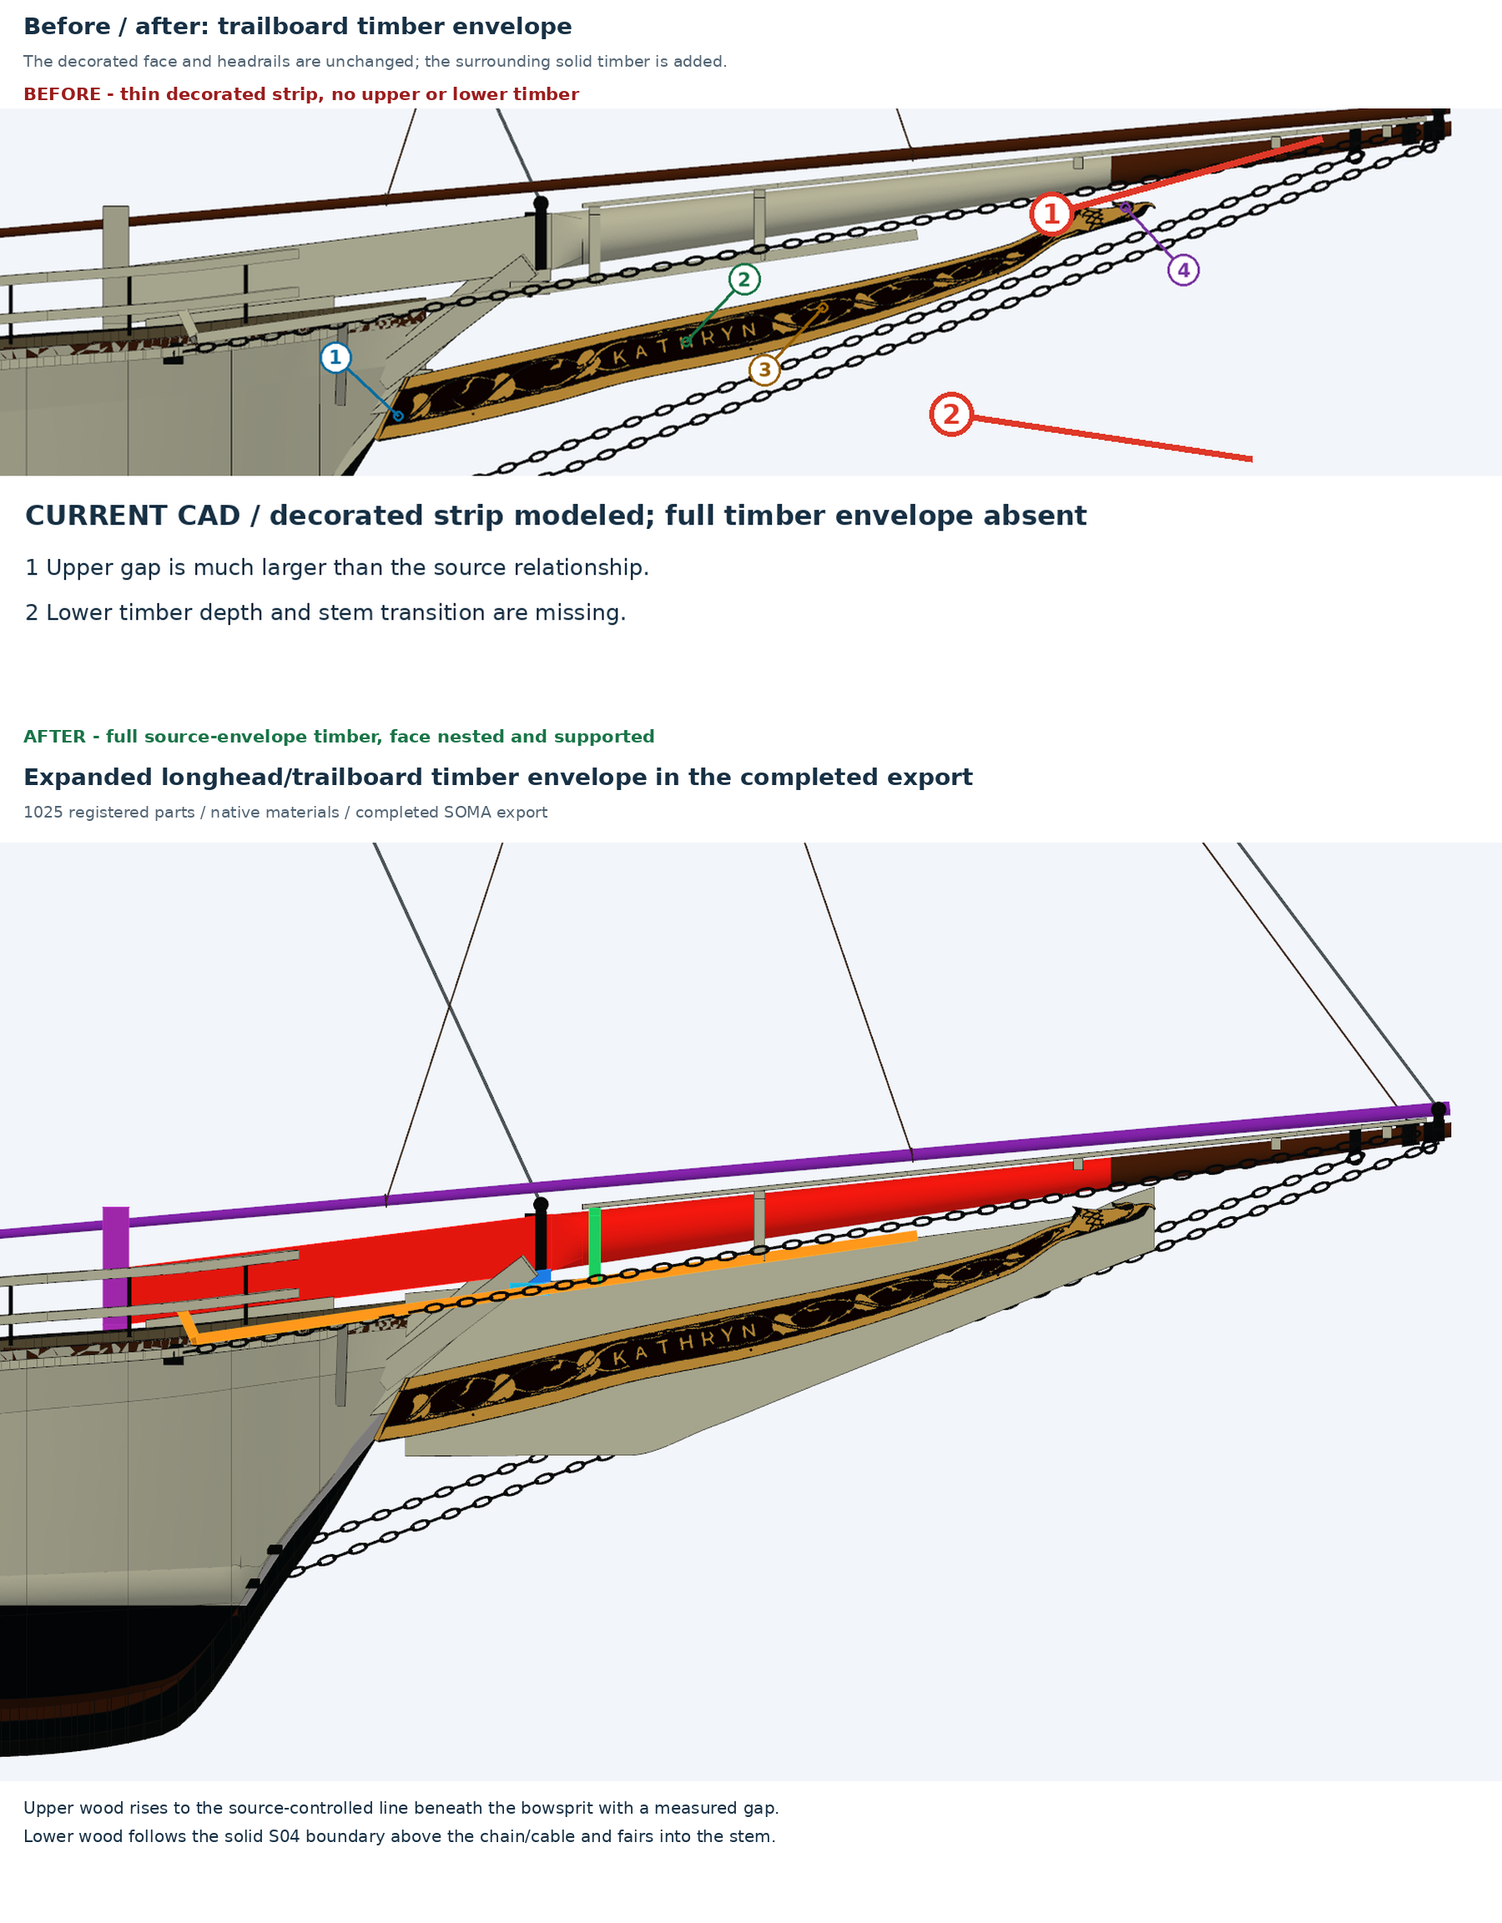
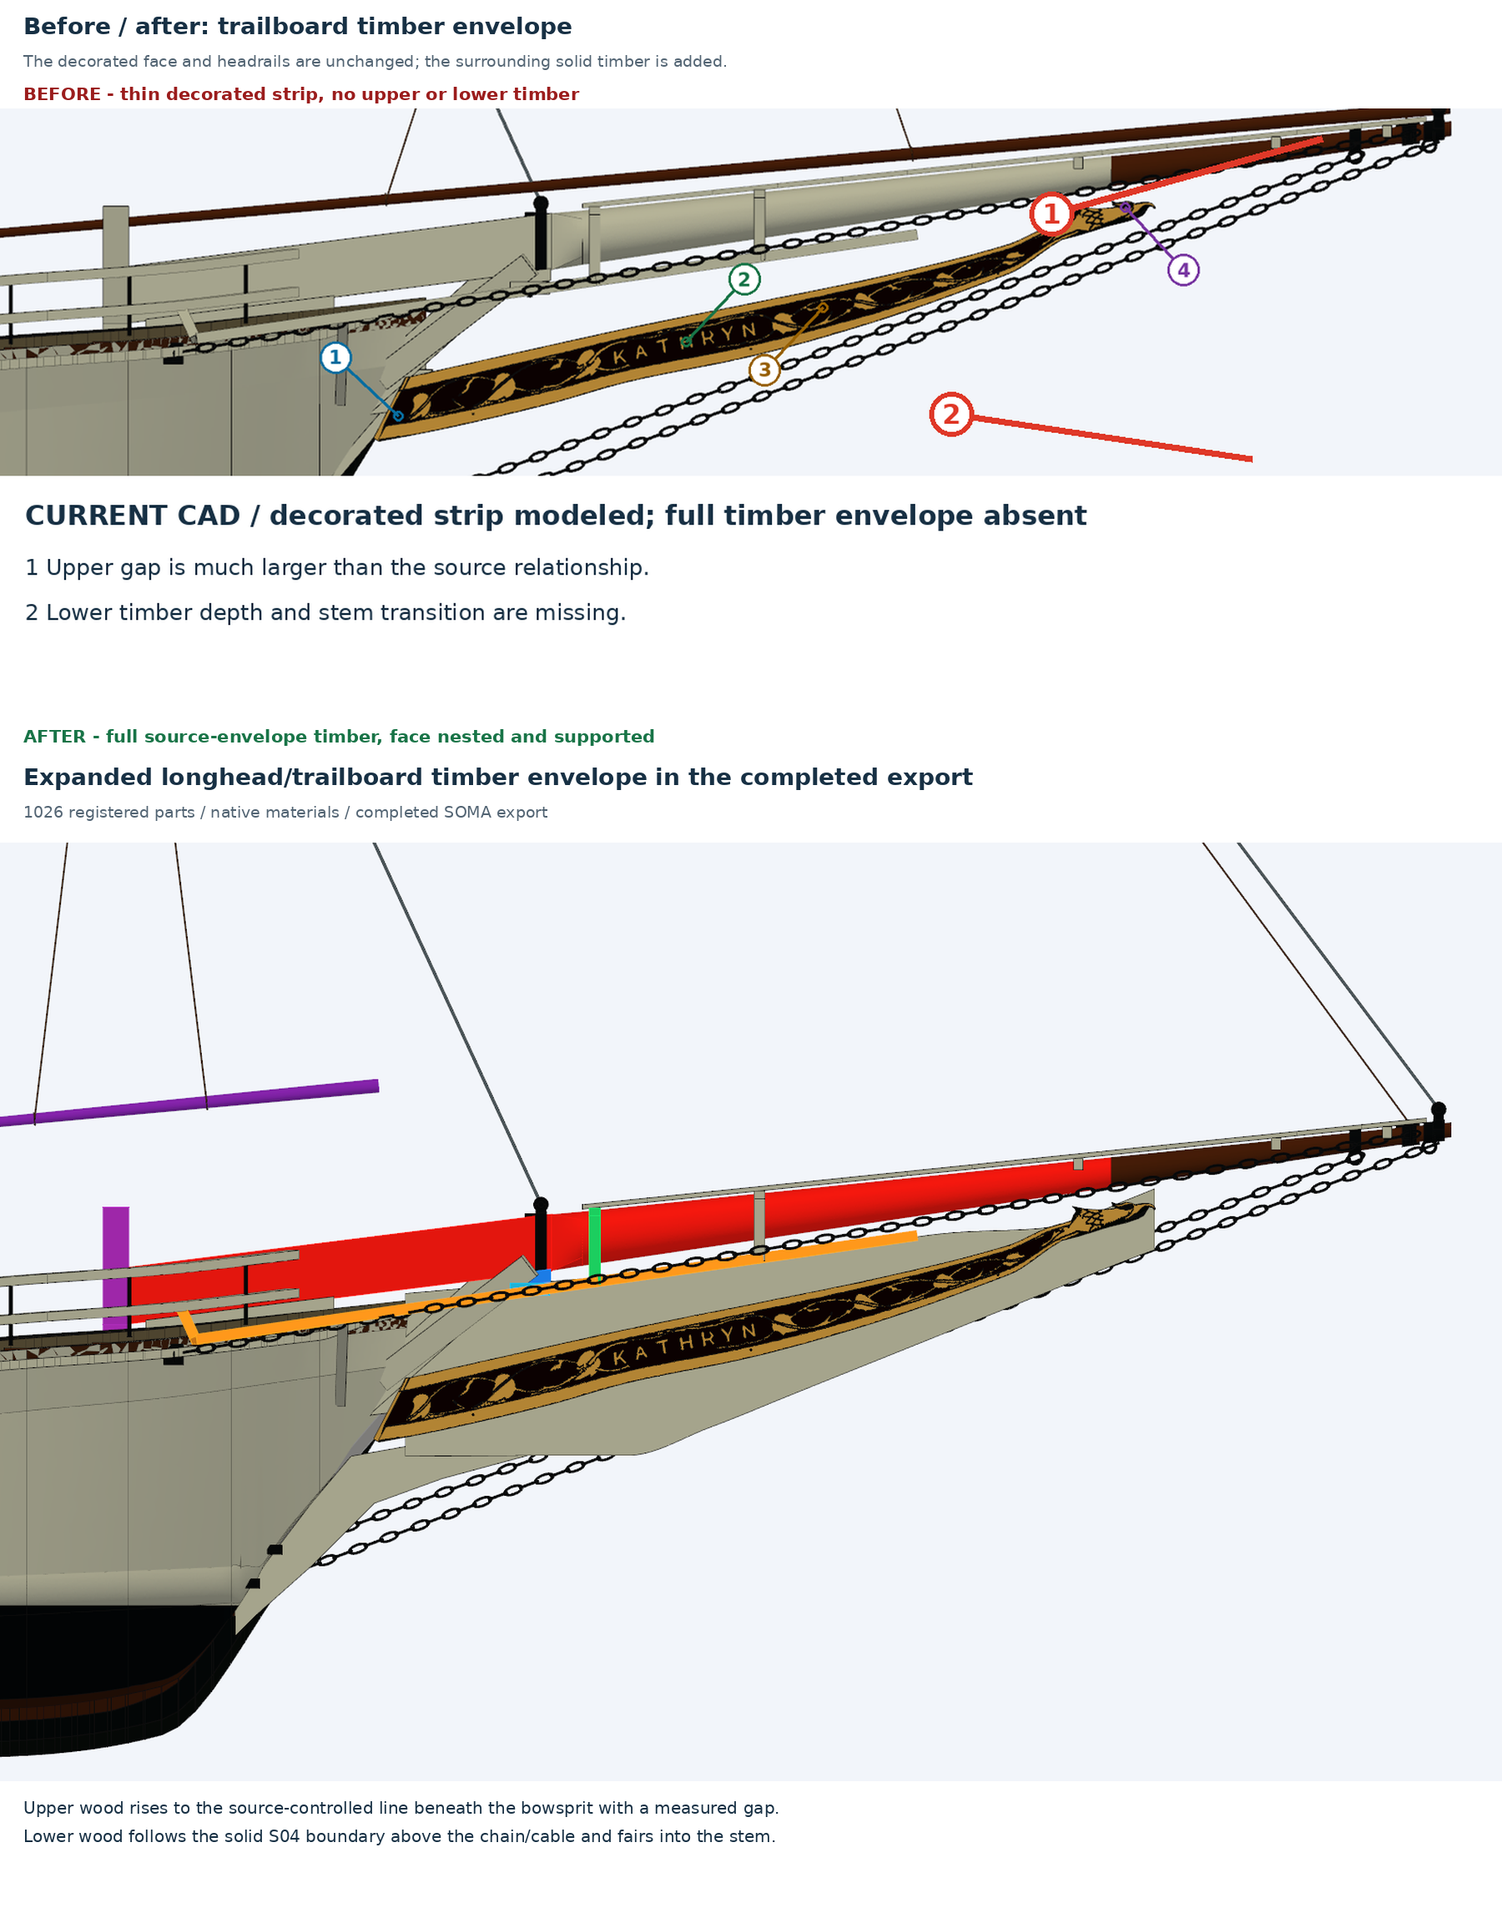
fix bow: extend the trailboard backing into the stem/forefoot
Use the Sheet 3 lower-wood crop (moved into the evidence set) to add a
registered lower trailboard stem fairing below the backing. The fairing bends
down along the stem, is cut to fitted faces against the backing, stem, hull,
keel and worm shoe, and extends 3.26 ft below the backing with zero common
volume. Add LE-09 for its source evidence, fitted seats, no-overlap conditions
and downward extent.

Taper the upper forward envelope into the S01 face/head so the backing no
longer forms a blunt plate above the eagle; keep the measured timber margin at
F=53, 56 and 60. The model is now 1026 parts.

Refresh the envelope views, sections, source overlay and acceptance records.
All working-export checks pass; the clean committed-tree proof is recorded in
the follow-up documentation commit.

diff --git a/docs/tools/build_trailboard_envelope.py b/docs/tools/build_trailboard_envelope.py
@@ -71,6 +71,12 @@ def render(name):
                 n in ('Longhead trailboard backing', 'Longhead upper shoulder') or
                 n == 'Starboard longhead eagle eye'}
         hide = tuple(n for n in names if n not in show)
+    elif name == 'lower':
+        show = {n for n in names if ('Longhead trailboard backing' in n or
+                'Lower trailboard stem fairing' in n or
+                n in ('Painted stem and cutwater', 'Painted topsides', 'Underwater hull',
+                      'Keel', 'Keel worm shoe', 'Starboard trailboard board'))}
+        hide = tuple(n for n in names if n not in show)
     else:
         hide = tuple(sails)
     views = {
@@ -81,6 +87,7 @@ def render(name):
         'plan': ((0, 0, 1), (0, 1, 0), (0, -31, 9.0), 7.8),
         'underside': ((-.8, .2, -.4), (0, 0, 1), (0, -29.5, 8.4), 6.5),
         'head': ((-1, 0, 0), (0, 0, 1), (0, -36.8, 10.5), 1.45),
+        'lower': ((-1, .10, .08), (0, 0, 1), (0, -24.0, 6.4), 3.2),
     }
     direction, up, focus, scale = views[name]
     im, _ = scene.render(direction, up, focus, scale, hide=hide)
@@ -91,7 +98,8 @@ def render(name):
         'port': 'Isolated port assembly: mirrored timber envelope with the outward-reading name',
         'plan': 'Plan with the decorated faces and backing: centreline longhead and separate headrails',
         'underside': 'Underside: full-width backing and fitted stem/head extension',
-        'head': 'Forward head: the envelope follows the source head and supports the eagle'
+        'head': 'Forward head: the envelope follows the source head and supports the eagle',
+        'lower': 'Lower stem fairing: the backing now bends down into the stem/forefoot'
     }
     notes = {
         'profile': ['Upper wood rises to the source-controlled line beneath the bowsprit with a measured gap.',
@@ -107,7 +115,9 @@ def render(name):
         'underside': ['The backing is cut against the stem, cross-timber and stem-head extension with matching fitted faces.',
                       'No zero-thickness sheet or floating ornament remains.'],
         'head': ['The forward closure follows the source head silhouette and contains the S01 eagle.',
-                 'The lower body carries aft into the stem/head root.']
+                 'The upper timber tapers into the face so the head is not surrounded by a blunt plate.'],
+        'lower': ['The S03 lower-wood crop is the source for the fairing below the backing.',
+                  'The fairing is cut to fitted faces against the backing, stem, hull, keel and worm shoe.']
     }
     plate(im, titles[name], f'{len(scene.parts)} registered parts / native materials / completed SOMA export',
           notes[name], 'after-' + name + '.png')
@@ -253,14 +263,14 @@ def comparison():
 
 if __name__ == '__main__':
     p = argparse.ArgumentParser(description=__doc__)
-    p.add_argument('--render', choices=['profile', 'quarter', 'starboard', 'port', 'plan', 'underside', 'head', 'all'])
+    p.add_argument('--render', choices=['profile', 'quarter', 'starboard', 'port', 'plan', 'underside', 'head', 'lower', 'all'])
     p.add_argument('--sections', action='store_true')
     p.add_argument('--overlay', action='store_true')
     p.add_argument('--comparison', action='store_true')
     a = p.parse_args()
     OUT.mkdir(parents=True, exist_ok=True)
     if a.render:
-        for name in (['profile', 'quarter', 'starboard', 'port', 'plan', 'underside', 'head']
+        for name in (['profile', 'quarter', 'starboard', 'port', 'plan', 'underside', 'head', 'lower']
                      if a.render == 'all' else [a.render]):
             render(name)
     if a.sections:

diff --git a/src/checks/check_longhead_envelope.py b/src/checks/check_longhead_envelope.py
@@ -55,6 +55,7 @@ def check(project=ROOT, out=None, strict=True):
 
     backing = part('Longhead trailboard backing')
     upper_shoulder = part('Longhead upper shoulder')
+    fairing = part('Lower trailboard stem fairing')
     boards = {label: part(label + ' trailboard board') for label in ('Port', 'Starboard')}
     spar = part('Bowsprit')
     stem = part('Painted stem and cutwater')
@@ -64,6 +65,7 @@ def check(project=ROOT, out=None, strict=True):
 
     for name, shape in [('Longhead trailboard backing', backing),
                         ('Longhead upper shoulder', upper_shoulder),
+                        ('Lower trailboard stem fairing', fairing),
                         *((label + ' trailboard board', board) for label, board in boards.items())]:
         assert shape.isValid() and len(shape.Solids()) == 1, name
 
@@ -180,6 +182,30 @@ def check(project=ROOT, out=None, strict=True):
     result('LE-08', max(unintended.values()) <= 1e-7,
            {'unintended_common_ft3': unintended}, 1e-7, 'ft3',
            'Exported solids checked for unintended common volume after fitted-seat cuts')
+
+    fair_seats = {}
+    for name, shape in [('Backing', backing), ('Painted stem', stem),
+                        ('Painted topsides', part('Painted topsides')),
+                        ('Keel', part('Keel')), ('Keel worm shoe', part('Keel worm shoe')),
+                        ('Underwater hull', part('Underwater hull'))]:
+        fair_seats[name] = dict(distance_mm=fairing.distance(shape) * 304.8,
+                                common_ft3=fairing.intersect(shape).Volume())
+    fair_bounds = fairing.BoundingBox()
+    backing_bounds = backing.BoundingBox()
+    extends_below = backing_bounds.zmin - fair_bounds.zmin
+    evidence = ROOT / ledger['lower_stem_fairing']['source_evidence']
+    result('LE-09', evidence.is_file()
+           and all(v['distance_mm'] <= 1.0 and v['common_ft3'] <= 1e-6
+                   for k, v in fair_seats.items() if k in ('Backing', 'Painted stem',
+                                                           'Painted topsides', 'Keel',
+                                                           'Keel worm shoe'))
+           and all(v['common_ft3'] <= 1e-6 for v in fair_seats.values())
+           and extends_below >= 1.0,
+           {'seats': fair_seats, 'fairing_bounds_ft': [fair_bounds.zmin, fair_bounds.zmax],
+            'extends_below_backing_ft': extends_below,
+            'source_evidence': str(evidence.relative_to(ROOT))},
+           {'distance_mm': 1.0, 'common_ft3': 1e-6, 'extends_below_ft': 1.0}, 'mixed',
+           'Lower S03 stem fairing: fitted contacts, no overlap with stem/hull/keel/worm shoe, and a real downward extension')
 
     paths = [ROOT / 'model.py', *sorted((ROOT / 'src/parts').glob('*.py')),
              ROOT / 'references/drawing_package/longhead_envelope.json',

diff --git a/src/parts/bow.py b/src/parts/bow.py
@@ -10,12 +10,12 @@ import numpy as np
 import cadquery as cq
 from scipy.interpolate import PchipInterpolator
 from .params import boat_point,HULL_LENGTH_FT,WATERLINE_FT,IVORY,IRON,WOOD,CARVED_IVORY,PORT_SIDE,legacy_forward
-from .hull import solid_envelope,SECTIONS,deck_height,section_plane,fair_loft,topside_halfwidth,smooth_blend,make_keel
+from .hull import solid_envelope,SECTIONS,deck_height,section_plane,fair_loft,topside_halfwidth,smooth_blend,make_keel,make_worm_shoe
 from .primitives import block,beam_between,spar_between
 from .bow_layout import SOURCE,SPAR,HEADWORK,LONGHEAD,RIG,axis_height,radius_at,half_depth_at
 from . import trailboards as traced
 from .trailboard_layout import (panel_top,panel_bottom,source_headrail_points,
-                                outer_top,outer_bottom,ENVELOPE_ROOT_F,ENVELOPE_TIP_F)
+                                outer_top,outer_bottom,ENVELOPE_ROOT_F,ENVELOPE_TIP_F,ENVELOPE)
 
 BOWSPRIT_HEEL_FT=SPAR['heel_f']
 BOWSPRIT_END_FT=SPAR['end_f']
@@ -158,6 +158,18 @@ def longhead_backing():
 @lru_cache(maxsize=1)
 def make_longhead_aft_filling():
     return [p.cut(solid_envelope()).clean() for p in longhead_pieces()[1:]]
+
+
+@lru_cache(maxsize=1)
+def make_lower_stem_fairing():
+    profile=ENVELOPE['lower_stem_fairing']['profile_fz']
+    polygon=[(25-f,z) for f,z in profile]
+    width=ENVELOPE['lower_stem_fairing']['width_ft']/2
+    shape=(cq.Workplane('YZ').polyline(polygon).close()
+           .extrude(width,both=True).val())
+    shape=shape.cut(make_stem()).cut(solid_envelope()).cut(make_keel()).cut(make_worm_shoe())
+    for piece in longhead_pieces():shape=shape.cut(piece)
+    return shape.clean()
 
 
 def make_painted_field(side):
@@ -440,6 +452,11 @@ def make_bow_details():
             b=solid.BoundingBox()
             name='Longhead upper shoulder' if b.zmin>8.5 and b.ymax<-25.3 else f'Longhead aft filling {i}.{k}'
             yield name,solid,IVORY
+    fairing=[solid for solid in make_lower_stem_fairing().Solids() if solid.Volume()>1e-3]
+    assert fairing,'Lower trailboard stem fairing lost in the fitted cuts'
+    for k,solid in enumerate(fairing,1):
+        suffix='' if len(fairing)==1 else f' {k}'
+        yield 'Lower trailboard stem fairing'+suffix,solid,IVORY
     for side,label in ((PORT_SIDE,'Port'),(-PORT_SIDE,'Starboard')):
         outline=panel_outline(side)
         yield label+' trailboard board',make_trailboard(side),TRAILBOARD_PAINT

diff --git a/src/checks/check_committed_build.py b/src/checks/check_committed_build.py
@@ -17,7 +17,7 @@ from pathlib import Path
 
 ROOT = Path(__file__).resolve().parents[2]
 GIT = ROOT / 'project-git'
-EXPECTED_PARTS = 1025
+EXPECTED_PARTS = 1026
 
 
 def git(*arguments):

diff --git a/docs/TRAILBOARD_ENVELOPE_CORRECTION.md b/docs/TRAILBOARD_ENVELOPE_CORRECTION.md
@@ -1,6 +1,6 @@
 # Trailboard timber-envelope correction: implementation and verification
 
-15 November 2026. Status: **implemented and verified from clean committed-tree build 5f13cd9**; the current committed-build record and acceptance are in [committed-build.json](images/trailboard_correction/committed-build.json). This report implements the [focused envelope gap analysis](TRAILBOARD_ENVELOPE_GAP_ANALYSIS.md) and the [earlier trailboard correction](TRAILBOARD_CORRECTION.md). The current model contains **1025 registered parts**.
+15 November 2026. Status: **implemented and verified from the completed working export**; the fresh committed-tree record is added after the lower-fairing commit. This report implements the [focused envelope gap analysis](TRAILBOARD_ENVELOPE_GAP_ANALYSIS.md) and the [earlier trailboard correction](TRAILBOARD_CORRECTION.md). The current model contains **1026 registered parts**.
 
 The decorated S01 faces are unchanged. The missing wood above and below them is now a solid, source-controlled longhead/trailboard envelope. The upper member rises to the classified S04 line beneath the bowsprit with a positive clearance; the lower member follows the solid S04 boundary above the chain/cable and fairs into the stem/head structure.
 
@@ -15,6 +15,8 @@ The decorated S01 faces are unchanged. The missing wood above and below them is 
 - The existing S01-V03 boards, paint field, carving islands, letters and eagle remain in their accepted positions and contours. Their full thickness is seated on the enlarged backing.
 
 - The item-11 headrails remain independent timbers. They are not used as the upper wood boundary; their measured clearance to the new backing is 143.5 mm.
+
+- A separate **Lower trailboard stem fairing** fills the S03 lower-wood wedge below the backing and bends down into the stem/forefoot. It is cut to fitted faces against the backing, stem, hull, keel and worm shoe. The upper forward envelope now tapers into the S01 face/head instead of leaving a blunt plate around the eagle.
 
 ## Source classification
 
@@ -36,14 +38,17 @@ python src/checks/check_bow_attachment.py
 |---|---|
 | **LE-01** independent held-out S04 stations | maximum residual **0.1241 ft** against the 0.20 ft source envelope |
 | **LE-02** actual exported envelope at F = 53, 56, 60, 62.5 ft | maximum residual **0.000033 ft** |
-| **LE-03** cross-sections above and below the fascia | minimum timber margin **0.346 ft** at F = 53, 56 and 60 ft |
+| **LE-03** cross-sections above and below the fascia | minimum timber margin **0.290 ft** at F = 53, 56 and 60 ft |
 | **LE-04** bowsprit clearance | minimum **0.0694 ft (0.83 in)**, band 0.04–0.50 ft, **zero common volume** |
 | **LE-05** fitted stem/head seats | stem, hull, keel, cross-timber and stem-head extension all at **0.000 mm** separation and zero common volume |
 | **LE-06** face and headrail seats | both faces touch the backing at **0.000 mm**; headrails remain **143.5 mm** clear |
 | **LE-07** bilateral symmetry | maximum envelope/part asymmetry **4.4 × 10⁻¹³ mm** |
 | **LE-08** unintended common volume | **0.000 ft³** for bowsprit, headrails, faces, stem, hull, keel, cross-timber and extension |
+| **LE-09** lower stem fairing | **3.259 ft** below the backing; fitted to backing, stem, hull, keel and worm shoe at 0.000 mm with zero common volume |
 
 The existing trailboard fidelity checks retain their accepted results: the maximum held-out physical source residual remains **0.1257 ft**, the outer S01 trace error **0.995 px**, and every carving/letter region remains in contact with its board. The bow attachment check passes with the enlarged backing seated on the stem-head extension.
+
+![S03 lower-wood source crop](images/trailboard_envelope_gap/source-s03-lower-wood.png)
 
 ![Expanded envelope in the completed profile](images/trailboard_envelope_gap/after-profile.png)
 
@@ -58,6 +63,8 @@ The existing trailboard fidelity checks retain their accepted results: the maxim
 ![Underside with the fitted backing and stem-head extension](images/trailboard_envelope_gap/after-underside.png)
 
 ![Forward head support](images/trailboard_envelope_gap/after-head.png)
+
+![Lower stem fairing](images/trailboard_envelope_gap/after-lower.png)
 
 ![Three cross-sections showing timber above and below the decorated fascia](images/trailboard_envelope_gap/sections.png)
 

diff --git a/docs/TRAILBOARD_CORRECTION.md b/docs/TRAILBOARD_CORRECTION.md
@@ -1,6 +1,6 @@
 # Trailboard correction: implementation and verification
 
-15 November 2026. Status: **implemented and verified from committed tree bb9a621**, then extended by the [timber-envelope correction](TRAILBOARD_ENVELOPE_CORRECTION.md). The current model contains **1025 registered parts**. This report implements the approved [gap analysis and specification](TRAILBOARD_GAP_ANALYSIS.md); its before figures remain preserved as the 928-part review snapshot. An [illustrated PDF](trailboard-correction.pdf) is provided beside this file.
+15 November 2026. Status: **implemented and verified from committed tree bb9a621**, then extended by the [timber-envelope correction](TRAILBOARD_ENVELOPE_CORRECTION.md). The current model contains **1026 registered parts**. This report implements the approved [gap analysis and specification](TRAILBOARD_GAP_ANALYSIS.md); its before figures remain preserved as the 928-part review snapshot. An [illustrated PDF](trailboard-correction.pdf) is provided beside this file.
 
 The square plaque-like return, pointed head and generic leaf pattern have been replaced with the composition traced from HAER Sheet 1. The boards now have an oblique aft return, broad unequal curls, a shaped enclosure around KATHRYN, the original glyph contours, and a hooked head with eye, mouth/jaw and feather regions. The separate headrails now follow their identified Sheet 4 profile and plan positions.
 

diff --git a/docs/JIB_CLUB_CORRECTION.md b/docs/JIB_CLUB_CORRECTION.md
@@ -1,6 +1,6 @@
 # Jib-club correction: short source spar and raised jib bottom
 
-15 November 2026. Status: **implemented and verified from clean committed-tree build 5f13cd9**; see the [committed-build proof](images/trailboard_correction/committed-build.json). The current model contains **1025 registered parts**.
+15 November 2026. Status: **implemented and verified from clean committed-tree build 5f13cd9**; see the [committed-build proof](images/trailboard_correction/committed-build.json). The current model contains **1026 registered parts**.
 
 The previous trailboard/bow correction rebuilt the jib club as a 25.7-ft spar running from the bowsprit tip to the clew along the full jib foot. That is not the Sheet 3 arrangement. S03-V01 shows a **short jib club** under the aft part of the foot, high above the deck. The current model now uses that source club and the raised jib pose.
 
